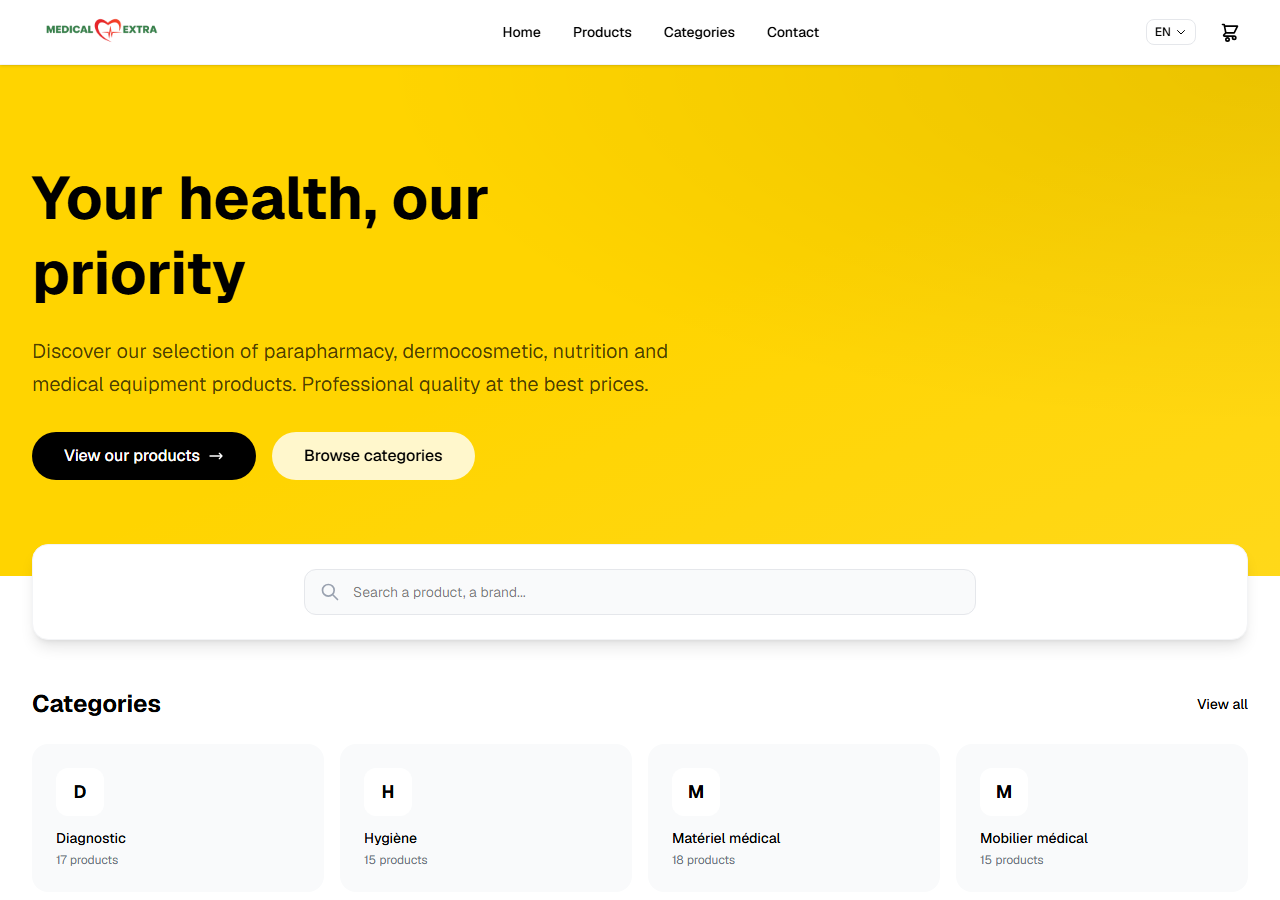
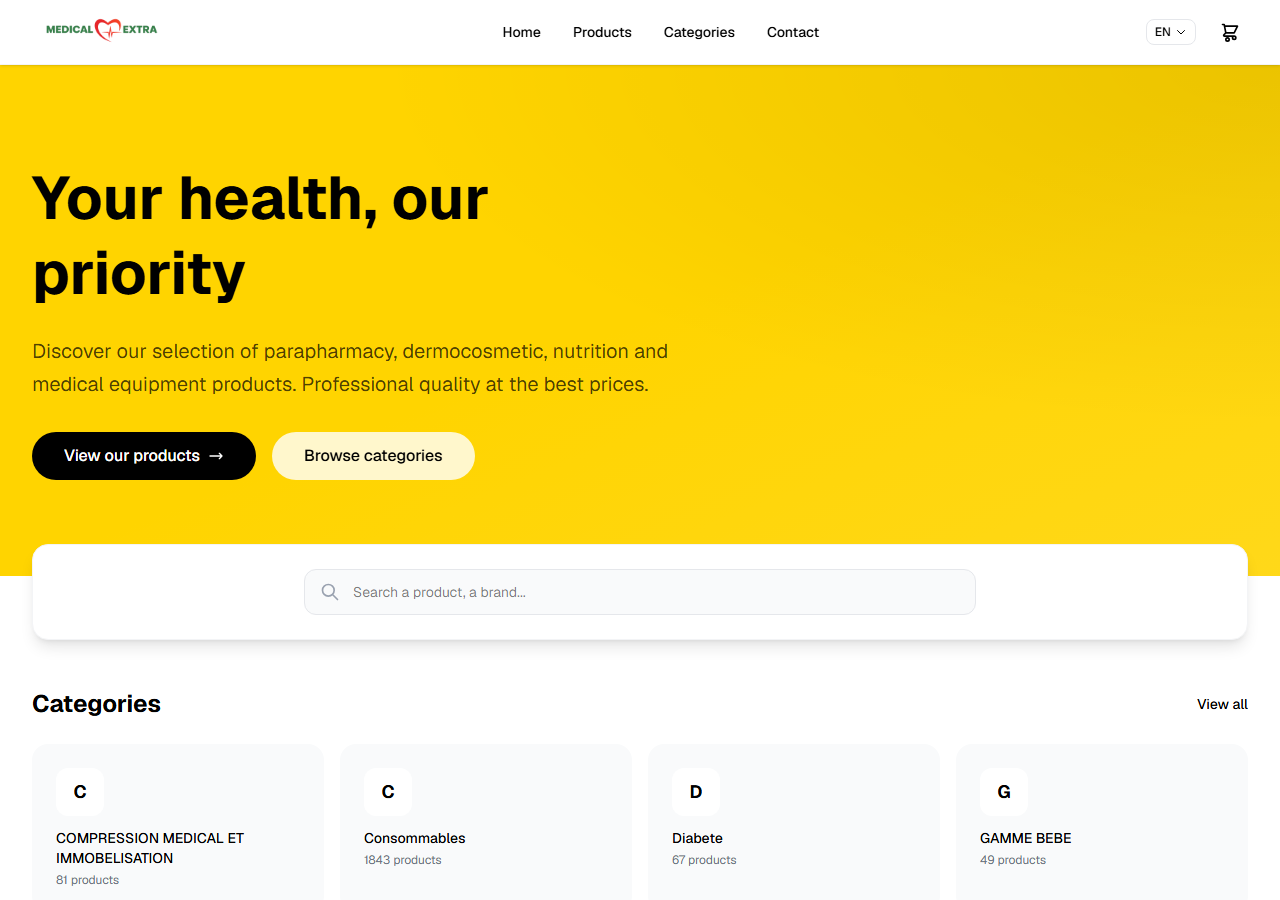
Use live MedicalExtra URL and screenshot

diff --git a/index.html b/index.html
@@ -446,7 +446,7 @@
             <i class="fa-brands fa-github"></i>
             <span data-i18n="projects.github">Show Project on GitHub</span>
           </a>
-          <a href="https://medicalextra.fly.dev" style="text-decoration: none"
+          <a href="https://www.medicalextra.ma/" style="text-decoration: none"
             class="text-white bg-green-600 hover:bg-green-700 px-5 py-2 rounded-full transition duration-300 w-full sm:w-auto flex items-center justify-center space-x-2 no-underline">
             <i class="fa-solid fa-play"></i>
             <span>Live Demo</span>
